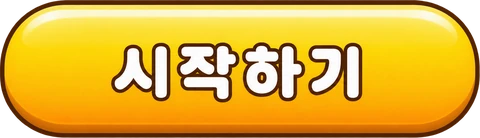
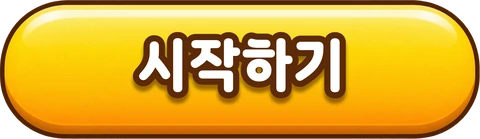
v0.9.133 시작하기 글자 정확히 가운데(게임 글꼴로 다시 그림)·설명판 위아래 여백 같게

diff --git a/index.html b/index.html
@@ -1101,14 +1101,14 @@
   #homeJobs .carDots i { width: 8px; height: 8px; border-radius: 50%; background: rgba(255,255,255,.35); }
   #homeJobs .carDots i.on { background: #ffd23f; box-shadow: 0 0 6px rgba(255,210,63,.8); }
   #homeTraits {
-    width: 100%; max-width: 340px; min-height: 92px; box-sizing: border-box; padding: 19px 30px 29px; margin-top: 14px;   /* v0.9.120 판 안쪽 크림색 칸(위 9%·아래 15% 테두리) 가운데에 글이 오게 */ position: relative;
+    width: 100%; max-width: 340px; min-height: 92px; box-sizing: border-box; padding: 22px 30px 22px; margin-top: 14px;   /* v0.9.120 판 안쪽 크림색 칸(위 9%·아래 15% 테두리) 가운데에 글이 오게 */ position: relative;
     border-style: solid; border-width: 0; border-color: transparent; border-image: url(assets/ui/panel_navy.webp) 66 fill / 30px / 0 stretch;   /* v0.9.126 크림 판 → 남색 금테 */
     color: #f1f3ff; text-shadow: 0 1px 2px rgba(0,0,0,.55); font-size: 13.5px; font-weight: 700; line-height: 1.5; text-align: center;
     display: flex; flex-direction: column; justify-content: center; gap: 1px;
   }
   #homeTraits::before { content: ""; position: absolute; left: 50%; top: -19px; width: 108px; height: 36px; transform: translateX(-50%); background: url(assets/ui/panel_orn.webp) center / contain no-repeat; filter: drop-shadow(0 2px 3px rgba(0,0,0,.45)); }
   #homeJobs .carWrap.off .carArrow, #homeJobs .carDots.off, #homeTraits.off { display: none; }
-  @media (max-height: 700px) { #homeTraits { font-size: 12px; min-height: 76px; padding: 16px 28px 25px; margin-top: 8px; } }
+  @media (max-height: 700px) { #homeTraits { font-size: 12px; min-height: 76px; padding: 18px 28px 18px; margin-top: 8px; } }
   @media (max-height: 760px) { #pgHome h1 img.ttl { width: min(36vw, 150px) !important; } #pgHome #jobList img.ic { height: 70px; } }
   /* 쪽 제목 — 리본 */
   .pgTitle {
@@ -1200,7 +1200,7 @@
   @media (max-height: 760px) { #startScreen > #pgHome { --homeTop: 72px; } }
   /* ── v0.9.131 시작하기 — 글자까지 그려 넣은 버튼 한 장(Codex btn_start) · v0.9.132 장식 없는 심플한 판, 글자 작게 ── */
   #startScreen #pgHome #btnStart { width: 190px; min-width: 0; height: 55px !important; padding: 0; margin: 0;
-    border: 0; border-image: none; border-radius: 0; box-shadow: none; background: url(assets/ui/btn_start.webp?3) center / contain no-repeat;
+    border: 0; border-image: none; border-radius: 0; box-shadow: none; background: url(assets/ui/btn_start.webp?4) center / contain no-repeat;
     color: transparent; font-size: 0 !important; text-shadow: none; animation: none; filter: drop-shadow(0 3px 4px rgba(0,0,0,.35)); }
   #startScreen #pgHome #btnStart:active { transform: translateY(2px) scale(.97); }
   /* v0.9.132 보유 중 — 버튼 말고 글자 표시(눌릴 것처럼 보이지 않게) */
@@ -2086,7 +2086,7 @@
   const elTitle = document.getElementById("overTitle");
   const coinNote = document.getElementById("coinNote");
 
-  const GAME_VERSION = "v0.9.132";
+  const GAME_VERSION = "v0.9.133";
   /* 제작사 스플래시(bamhobak friends 로고) — 2026-09-20 끔. 다시 켜려면 true */
   const SPLASH_USE = false;   // 코드를 고칠 때마다 뒤 두 자리를 올린다
   document.getElementById("ver").textContent = GAME_VERSION;

diff --git a/README.md b/README.md
@@ -5,7 +5,7 @@
 👉 **플레이: https://bamhobak.github.io/ddongpi/**
 
 > 이 문서는 `index.html` 의 실제 값을 옮겨 적은 것입니다. 숫자를 고쳤으면 여기도 같이 고쳐 주세요.
-> 마지막으로 맞춰 본 판: **v0.9.132**
+> 마지막으로 맞춰 본 판: **v0.9.133**
 
 ## ⚔ 대전모드 (v0.8.24 한 폰 · v0.8.25 두 폰)
 시작하기를 누르면 **[방 만들기] · [방 참가](방 번호 4자리) · [한 폰으로 둘이서]** 를 고릅니다.
